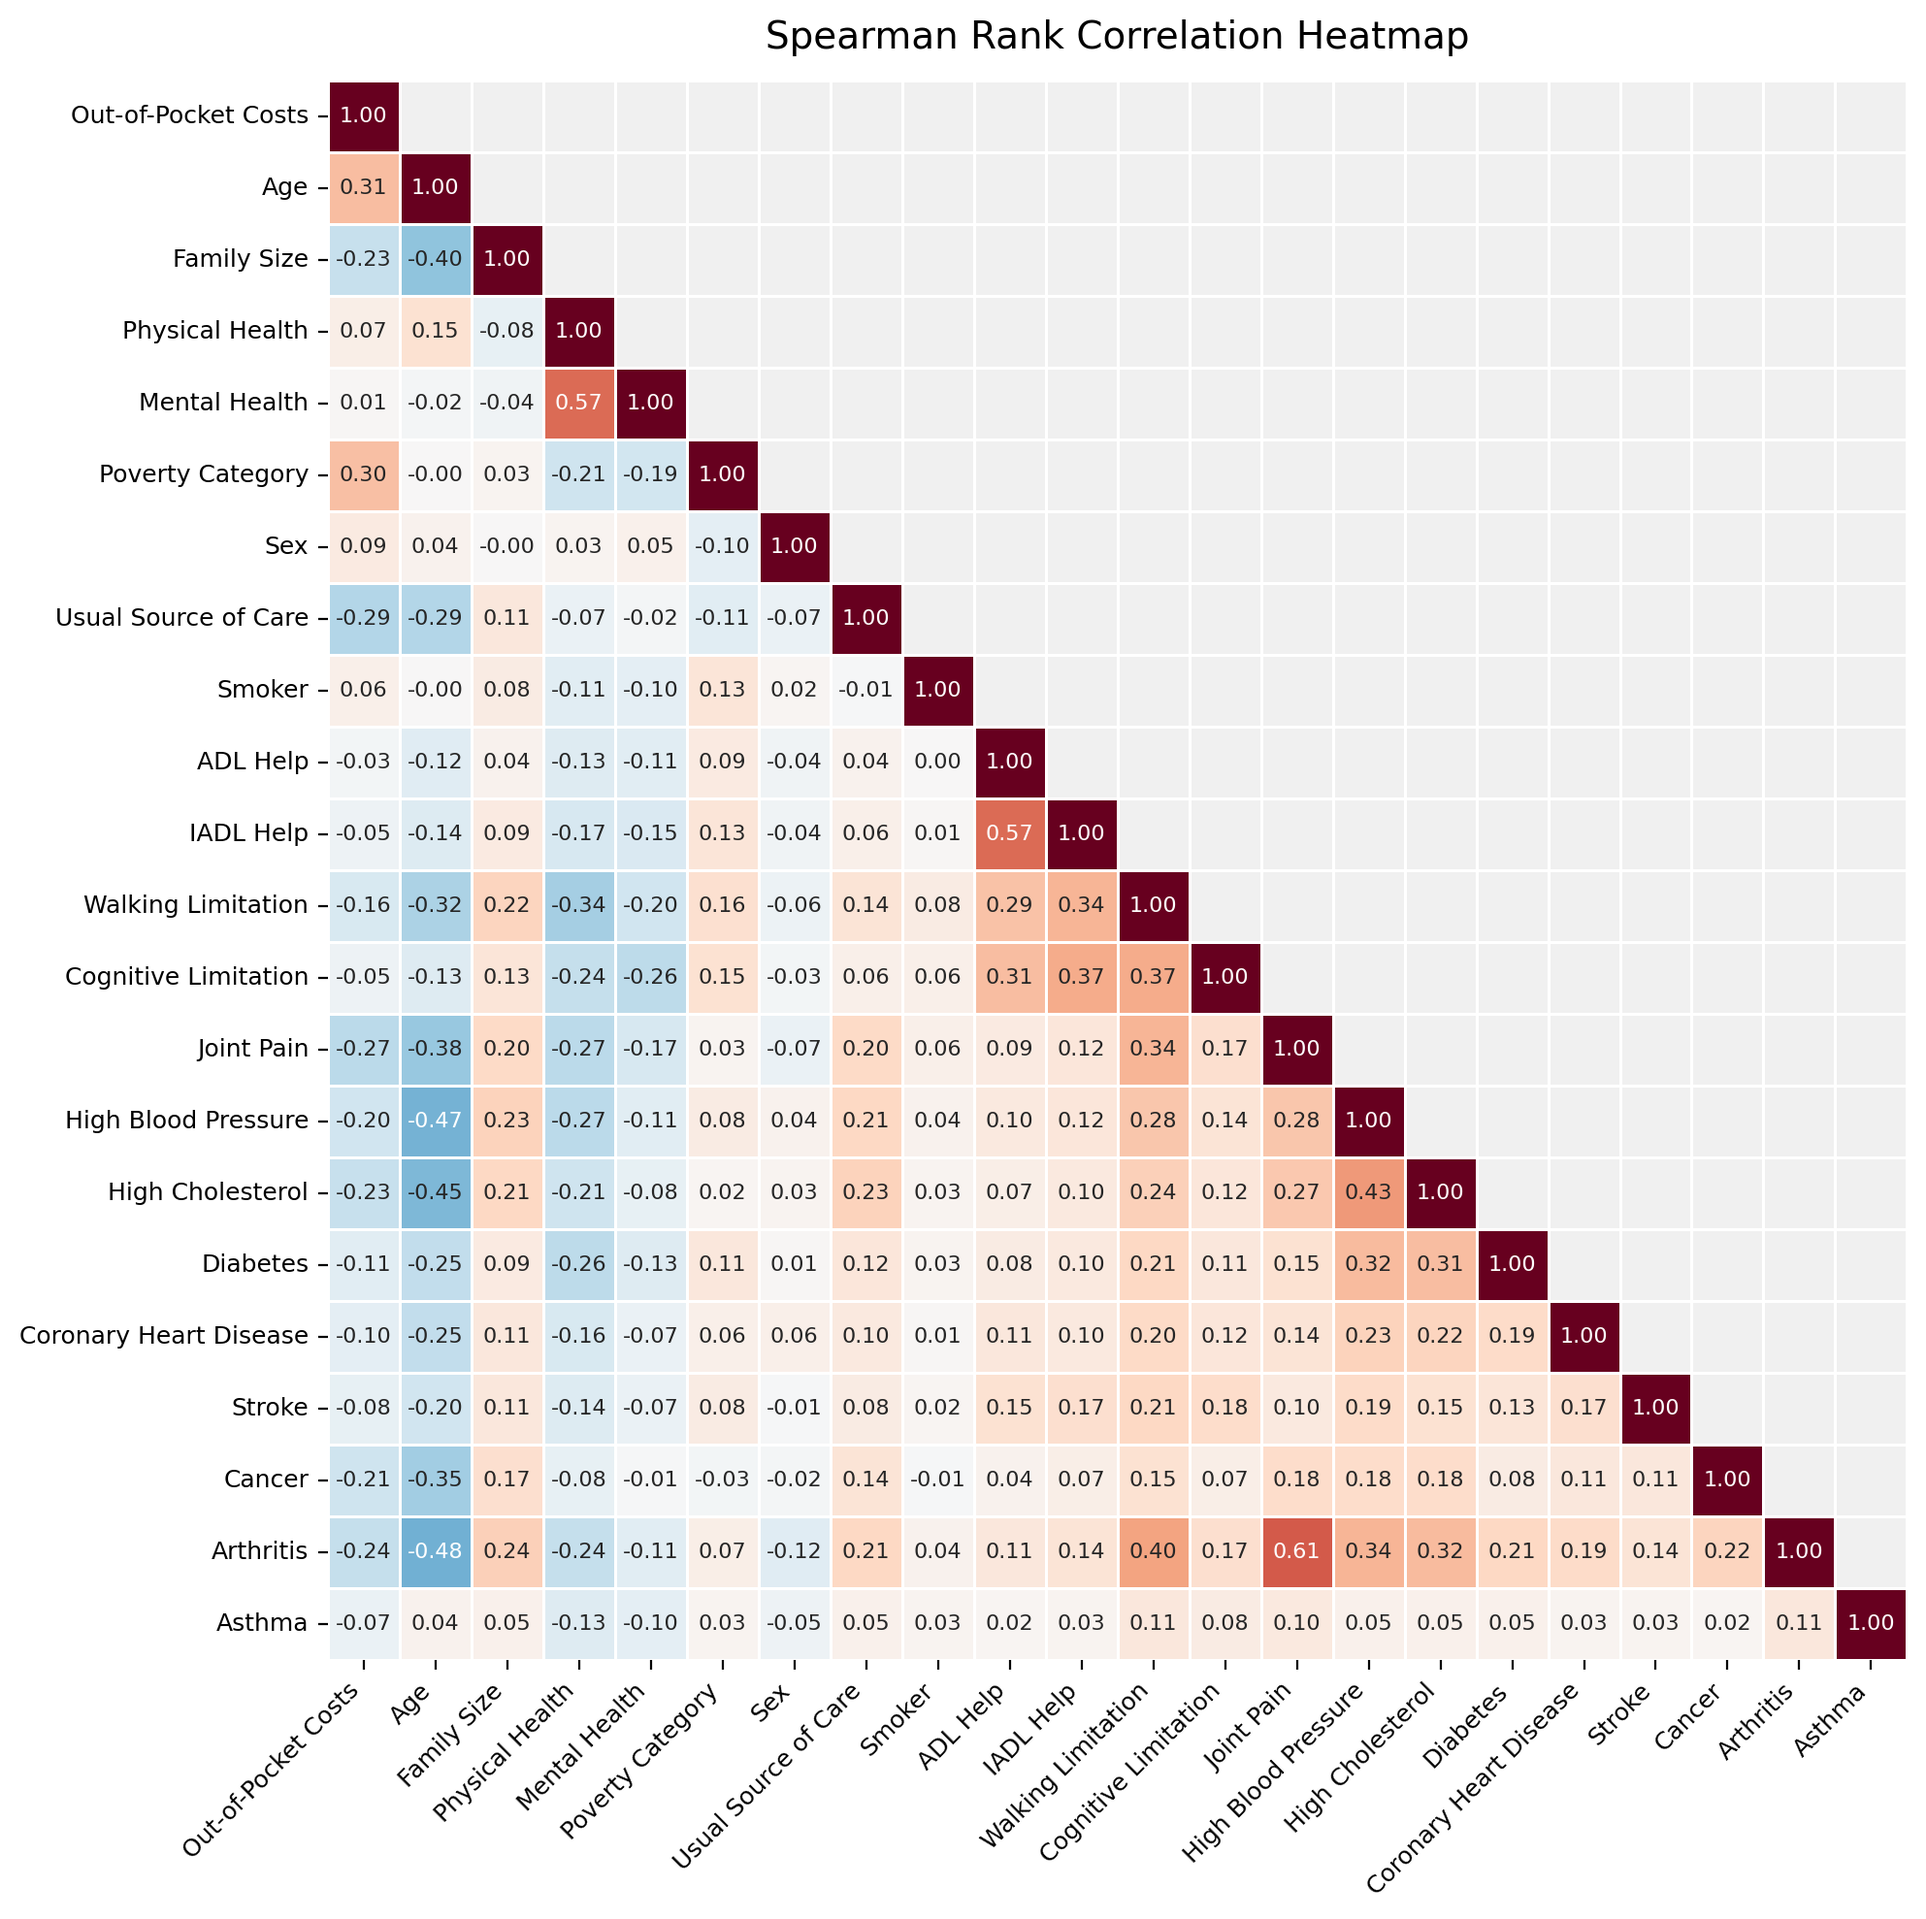
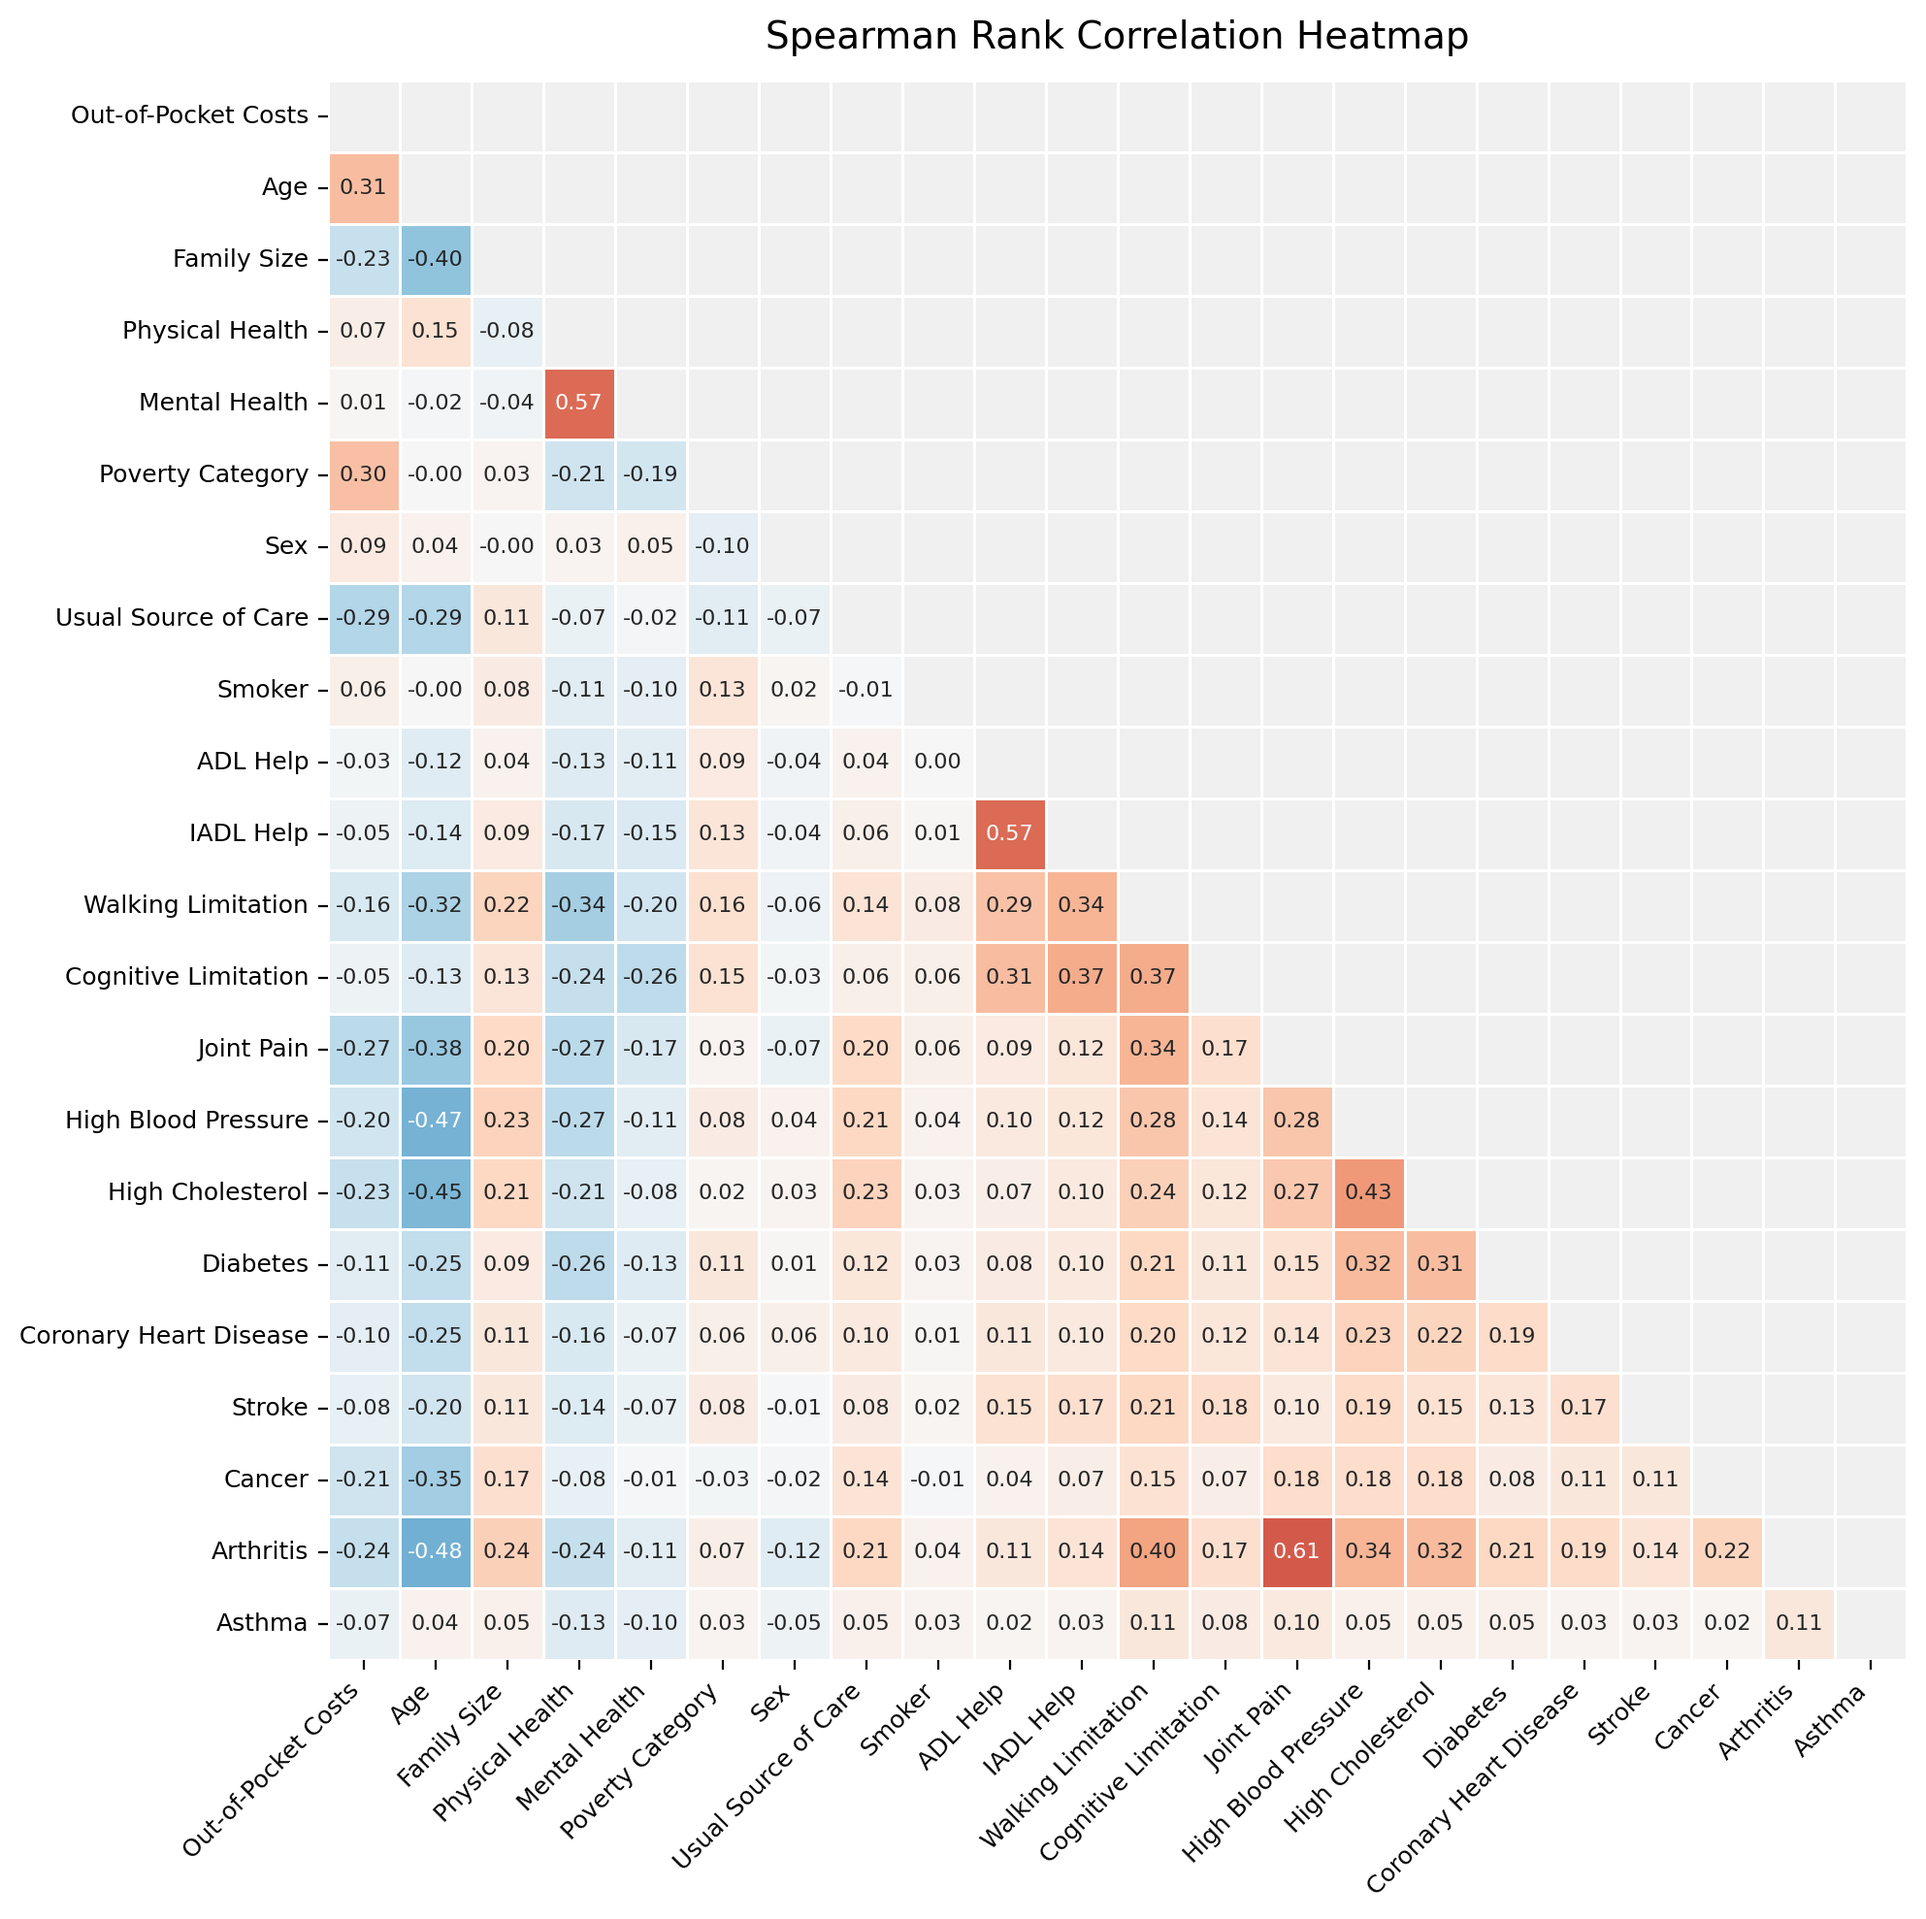
style(eda): remove diagonal with self-correlations in correlation heatmap

Changed region(s): [[0.4685, 0.3392, 0.9995, 0.8635], [0.2811, 0.1542, 0.4685, 0.3392], [0.1562, 0.0308, 0.2811, 0.1542]]

diff --git a/notebooks/medical_cost_prediction.py b/notebooks/medical_cost_prediction.py
@@ -1390,8 +1390,8 @@ def plot_correlation_heatmap(df, columns, method, save_to_file=None):
     # Create correlation matrix and round to 2 decimals
     correlation_matrix = round(df[columns].corr(method=method), 2) 
     
-    # Mask upper triangle (k=1 keeps diagonal so self-correlations are visible)
-    mask = np.triu(np.ones(correlation_matrix.shape), k=1).astype(bool) 
+    # Mask upper triangle (k=0 removes diagonal with self-correlations)
+    mask = np.triu(np.ones(correlation_matrix.shape), k=0).astype(bool) 
     correlation_matrix[mask] = np.nan
 
     # Create display labels for readability
